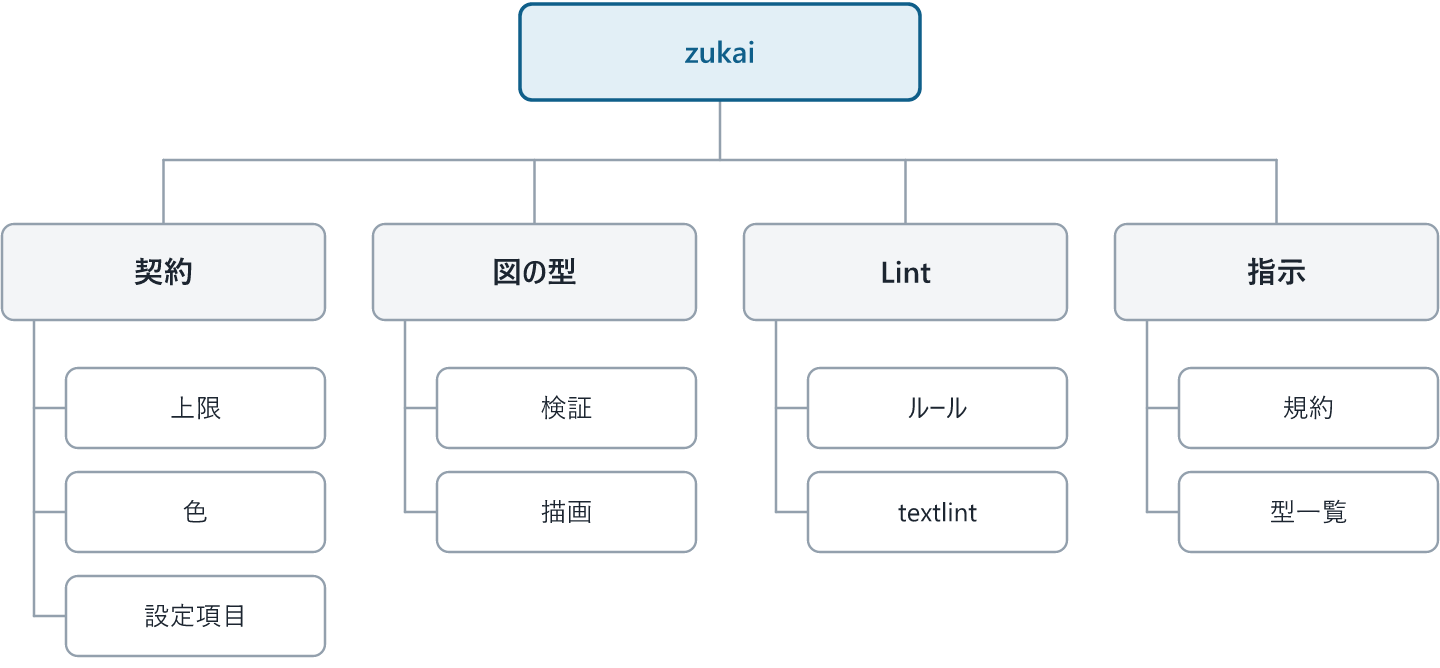
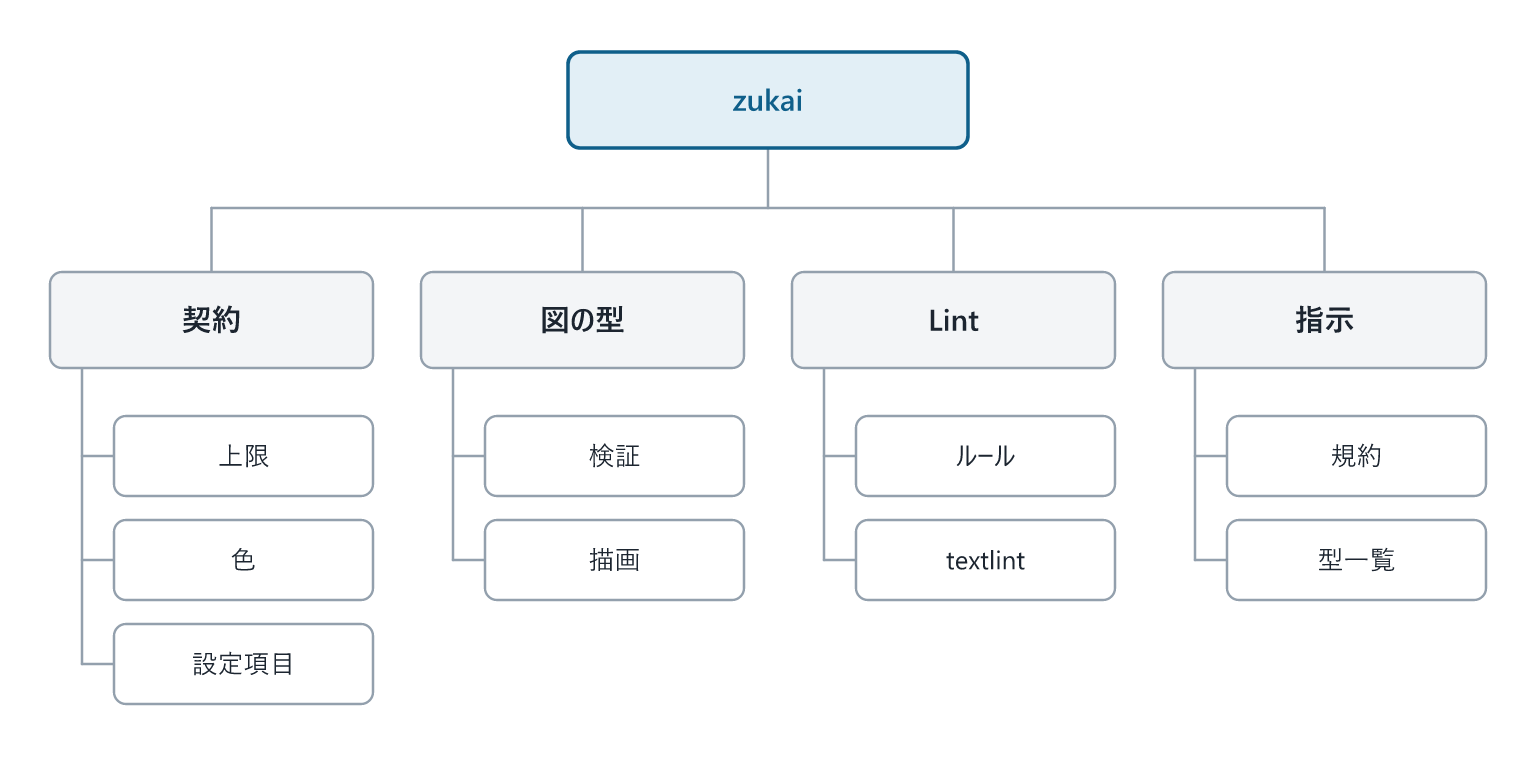
図の四辺に余白を付け、READMEの図と説明を更新 (#17)
HTML と PNG に紙の色の余白を付け、figure.margin は 0〜360 に制限する。
README の画像6枚を再生成し、説明文と設定の説明を更新する。

Closes #14

diff --git a/tests/figure-margin.test.ts b/tests/figure-margin.test.ts
@@ -1,0 +1,142 @@
+// 図の座標を保ち、HTML と PNG の四辺に紙の色の余白が付くことを確かめる。
+import { test } from 'node:test';
+import assert from 'node:assert/strict';
+import fs from 'node:fs';
+import os from 'node:os';
+import path from 'node:path';
+import { fileURLToPath } from 'node:url';
+import { parse as yaml } from 'yaml';
+import { Resvg } from '@resvg/resvg-js';
+import type { RenderedImage } from '@resvg/resvg-js';
+import { types } from '../src/figures/index.ts';
+import { baseTokens, readTheme } from '../src/theme.ts';
+import { typesFor } from '../src/figures/custom.ts';
+import { render, renderConfluence } from '../src/render.ts';
+import { pngFont, toPng } from '../src/png.ts';
+import { lint } from '../src/lint/index.ts';
+import type { Tokens } from '../src/types.ts';
+
+const raster = (svg: string) => new Resvg(svg, { fitTo: { mode: 'zoom', value: 2 }, font: { loadSystemFonts: true, defaultFontFamily: pngFont() } }).render();
+// ECharts の図・CSS・クリップ領域の通し番号を、出現順にそろえる。参照する名前の対応は保つ。
+const stable = (svg: string) => {
+  const ids = new Map<string, number>();
+  return svg.replace(/\bzr\d+-[\w-]+/g, (id) => `chart-${ids.get(id) ?? ids.set(id, ids.size).get(id)}`);
+};
+
+// 四辺の余白が紙の色で埋まり、図形が重ならないことをRGBAのピクセルで確かめる。
+function checkMargin(image: RenderedImage, t: Tokens) {
+  const rgba = Buffer.from([...t.color.paper.slice(1).match(/../g)!.map((n) => parseInt(n, 16)), 255]);
+  const row = Buffer.alloc(image.width * 4);
+  for (let x = 0; x < image.width; x++) rgba.copy(row, x * 4);
+  const pixels = image.pixels;
+  // 枠線が座標の端を少し越えるので、その分を除いた余白が四辺で空いているかを見る。
+  const border = Math.floor(t.figure.margin * 2) - 4;
+  for (let y = 0; y < image.height; y++) {
+    const actual = pixels.subarray(y * row.length, (y + 1) * row.length);
+    if (y < border || y >= image.height - border) assert.deepEqual(actual, row, `y=${y}`);
+    else {
+      assert.deepEqual(actual.subarray(0, border * 4), row.subarray(0, border * 4), `left y=${y}`);
+      assert.deepEqual(actual.subarray(-border * 4), row.subarray(-border * 4), `right y=${y}`);
+    }
+  }
+}
+
+test('組み込みの全24型は、図の座標を変えずに紙の色の余白を付ける', () => {
+  const t = baseTokens();
+  // PNG の既定の白で隠れないよう、紙の色を変え、透明な余白も検出する。
+  t.color.paper = '#e9f1f7';
+  const ctx = { baseDir: fileURLToPath(new URL('../corpus/good/', import.meta.url)) };
+  for (const type of Object.values(types)) {
+    const spec = type.name === 'screenshot'
+      ? { type: 'screenshot', image: 'shots/login.png', marks: [{ selector: '.alert', note: '残り時間を表示します。' }] }
+      : type.fence === 'svg figure' ? { type: 'free', svg: type.example } : yaml(type.example);
+    const svg = type.render(spec, t, ctx);
+    const padded = raster(svg);
+    const originalSvg = type.render(spec, { ...t, figure: { ...t.figure, margin: 0 } }, ctx);
+    // 表示範囲と背景を除き、座標・文字・線・箱は同じ。ECharts の図の通し番号だけは描くたびに変わる。
+    const content = (s: string) => stable(s.replace(/^<svg\b[^>]*>/, '').replace(/^<rect class="zk-background"[^>]*\/>/, ''));
+    assert.equal(content(svg), content(originalSvg), type.name);
+    const original = raster(originalSvg);
+    const offset = t.figure.margin * 2;
+    assert.equal(padded.width, original.width + offset * 2, type.name);
+    assert.equal(padded.height, original.height + offset * 2, type.name);
+    checkMargin(padded, t);
+    const a = padded.pixels;
+    const b = original.pixels;
+    let difference = 0;
+    let channels = 0;
+    // 以前の表示範囲の端では切れていた枠線が見えるようになるので、端の2pxは比較から外す。
+    for (let y = 2; y < original.height - 2; y++) {
+      const start = ((y + offset) * padded.width + offset) * 4;
+      // 表示範囲の原点が変わると、回転した文字や曲線のアンチエイリアスに端数の差が出る。
+      for (let x = 8; x < (original.width - 2) * 4; x++) {
+        difference += Math.abs(a[start + x] - b[y * original.width * 4 + x]);
+        channels++;
+      }
+    }
+    assert.ok(difference / channels < 0.05, `${type.name}: 平均の色の差 ${difference / channels}`);
+    // PNG への変換でも SVG の背景色を使い、別の背景指定で余白の色が変わらない。
+    assert.deepEqual(toPng(svg, '#ff00ff').data, padded.asPng(), type.name);
+  }
+});
+
+test('余白を0に設定したテーマは、余白なしのHTML用SVGとPNGを描ける', () => {
+  const theme = readTheme(null, { set: { 'figure.margin': 0 } });
+  assert.deepEqual(theme.problems, []);
+  const spec = yaml(types.flow.example);
+  const svg = types.flow.render(spec, theme.tokens);
+  assert.match(svg, /viewBox="0 0 720 72"/);
+  const png = toPng(svg, theme.tokens.color.paper);
+  assert.equal(png.width, 1440);
+  assert.equal(png.height, 144);
+});
+
+const playwright: typeof import('playwright-core') | null = await import('playwright' as string).catch(() => null);
+test('動画では背景を部品に数えず、箱と矢印だけを動かす', { skip: !playwright && 'Playwright がありません' }, async (ctx) => {
+  const { scenesOf, timeline, estimateVoice } = await import('../src/video/script.ts');
+  const { pageHtml } = await import('../src/video/encode.ts');
+  const { readJson } = await import('../src/lint/index.ts');
+  const browser = await playwright!.chromium.launch();
+  ctx.after(() => browser.close());
+  const file = fileURLToPath(new URL('../corpus/good/login.md', import.meta.url));
+  const source = '# 題名\n\n導入です。\n\n## 節\n\n主張です。\n\n```yaml figure\ntype: flow\nsteps:\n  - label: 入口\n  - label: 出口\n```\n\n説明です。\n';
+  const scenes = scenesOf(source, file);
+  const plan = { ...timeline(scenes, scenes.map((s) => estimateVoice(s.lines))), width: 1920, height: 1080, fps: 30, limits: readJson('contract/limits.json').video };
+  const page = await browser.newPage();
+  await page.setContent(pageHtml(plan, baseTokens()));
+  const result = await page.evaluate(() => {
+    (window as unknown as { zkInit(): unknown }).zkInit();
+    const svg = document.querySelector('.zk-fig svg')!;
+    const background = svg.querySelector('.zk-background')!;
+    return { backgroundPart: background.hasAttribute('data-part'), animations: background.getAnimations().length, parts: svg.querySelectorAll('[data-part]').length };
+  });
+  assert.deepEqual(result, { backgroundPart: false, animations: 0, parts: 3 });
+});
+
+test('HTML と Confluence は、自由図・チャート・テーマ独自の型に同じ余白を付ける', async (ctx) => {
+  const dir = fs.mkdtempSync(path.join(os.tmpdir(), 'zukai-margin-'));
+  ctx.after(() => fs.rmSync(dir, { recursive: true, force: true }));
+  const themeDir = path.join(dir, 'theme');
+  const typeDir = path.join(themeDir, 'types', 'sample');
+  fs.mkdirSync(typeDir, { recursive: true });
+  fs.writeFileSync(path.join(dir, 'zukai.config.json'), JSON.stringify({ theme: 'theme' }));
+  fs.writeFileSync(path.join(themeDir, 'tokens.json'), JSON.stringify({ color: { paper: '#141f4f' }, figure: { margin: 32 } }));
+  const free = '<svg viewBox="0 0 720 100"><title>例</title><rect x="0" y="0" width="720" height="100" fill="#0f5f8a"/><text class="zk-text" x="360" y="55" text-anchor="middle">例</text></svg>';
+  fs.writeFileSync(path.join(typeDir, 'type.json'), JSON.stringify({ summary: '例を描く', when: '例を示す', fields: { label: { type: 'string', required: true, max: 8 } }, example: { label: '例' } }));
+  fs.writeFileSync(path.join(typeDir, 'figure.svg'), free.replace('>例</text>', '>{{label}}</text>'));
+  const theme = readTheme(themeDir);
+  const custom = typesFor(theme).sample;
+  checkMargin(raster(custom.render({ type: 'sample', label: '例' }, theme.tokens)), theme.tokens);
+  const figures = [`svg figure\n${free}`, `yaml figure\n${types.bar.example}`, 'yaml figure\ntype: sample\nlabel: 例'];
+  const source = '# 題名\n\n導入です。\n\n' + figures.map((f, i) => `## 節${i + 1}\n\n主張です。\n\n\`\`\`${f}\n\`\`\`\n\n説明です。\n`).join('\n');
+  const file = path.join(dir, 'a.md');
+  assert.ok((await lint(source, file, { textlint: false })).ok);
+  const html = await render(source, file);
+  const page = await renderConfluence(source, file);
+  const svgs = [...html.matchAll(/<figure>([\s\S]*?)<\/figure>/g)].map((m) => m[1]);
+  assert.equal(svgs.length, 3);
+  // ECharts は描くたびに図の番号が変わるので、番号を外して比べる。
+  assert.deepEqual(svgs.map(stable), page.figures.map((f) => stable(f.svg)));
+  for (const svg of svgs) checkMargin(raster(svg), theme.tokens);
+  assert.equal(page.background, '#141f4f');
+});

diff --git a/src/figures/svg.ts b/src/figures/svg.ts
@@ -56,11 +56,20 @@ function emphasisCss(t: Tokens): string[] {
   return [`.zk-box-em{${box}}`, `.zk-on-em{fill:${on}}`, `.zk-on-em-note{fill:${onNote}}`];
 }
 
+// 描画の座標はそのままに、表示範囲を四辺へ広げる。HTML と PNG に同じ余白と紙の色を付ける。
+export function frame(t: Tokens, height: number, title: string): string {
+  const { width, margin } = t.figure;
+  const w = width + margin * 2;
+  const h = height + margin * 2;
+  return `<svg xmlns="http://www.w3.org/2000/svg" viewBox="${-margin} ${-margin} ${w} ${h}" width="100%" role="img" aria-label="${esc(title)}"><rect class="zk-background" x="${-margin}" y="${-margin}" width="${w}" height="${h}" fill="${t.color.paper}"/>`;
+}
+
+// SVGの枠と背景に、図形のスタイルと矢印・グラデーションの定義を加える。heightは余白を含まない図の高さ。
 export function open(t: Tokens, height: number, title: string): string {
   const c = t.color;
   const f = t.figure;
   return [
-    `<svg xmlns="http://www.w3.org/2000/svg" viewBox="0 0 ${f.width} ${height}" width="100%" role="img" aria-label="${esc(title)}">`,
+    frame(t, height, title),
     '<style>',
     `.zk-text{font-family:${t.font.replace(/"/g, "'")};fill:${c.ink};font-size:${t.size.label}px;font-weight:600}`,
     `.zk-note{font-family:${t.font.replace(/"/g, "'")};fill:${c.sub};font-size:${t.size.note}px}`,

diff --git a/src/figures/chart.ts b/src/figures/chart.ts
@@ -1,7 +1,7 @@
 // チャートの型が共有する部品。描画は ECharts に任せ、配色と線の太さは contract/tokens.json から渡す。
 import { createRequire } from 'node:module';
 import type * as Echarts from 'echarts';
-import { gradientVector } from './svg.ts';
+import { frame, gradientVector } from './svg.ts';
 import { mix, seriesColor, textOn } from '../color.ts';
 import type { Tokens } from '../types.ts';
 
@@ -29,8 +29,8 @@ export function renderChart(option: ChartOption, t: Tokens, height: number, titl
   // グラデーションの色からは、ECharts が重ねたときの色を作れず、壊れた CSS（fill:[object Object]）を出すため。
   const svg = chart.renderToSVGString().replace(/\.[\w-]+:hover \{[^}]*\}\n?/g, '');
   chart.dispose();
-  // 幅に合わせて伸縮するよう、固定の幅と高さを外す。viewBox は ECharts が付けている。
-  return svg.replace(/<svg ([^>]*?)width="[\d.]+" height="[\d.]+"/, `<svg $1width="100%" role="img" aria-label="${title.replace(/"/g, '&quot;')}"`);
+  // ECharts の座標を保ち、他の図と同じ余白と背景を付ける。
+  return svg.replace(/<svg\b[^>]*>/, () => frame(t, height, title));
 }
 
 // 描画せずに、各要素が置かれる位置と大きさだけを調べる。文字が収まるかの検査に使う。

diff --git a/src/theme.ts b/src/theme.ts
@@ -79,7 +79,12 @@ export const CHOICES: Record<string, string[]> = {
   'chart.mode': ['series', 'neutral'],
 };
 // 範囲のある数値。ここに無い数値は、0より大きければよい。
-const RANGES: Record<string, [number, number]> = { 'gradient.angle': [0, 360], 'figure.radius': [0, Infinity] };
+const RANGES: Record<string, [number, number]> = {
+  'gradient.angle': [0, 360],
+  'figure.radius': [0, Infinity],
+  // 0なら余白なし。上限は図の幅の半分にし、画像の幅を余白なしの2倍までに抑える。
+  'figure.margin': [0, baseTokens().figure.width / 2],
+};
 
 // base の形に合う値だけを重ねる。base に無い名前、型の違う値、色でない値は problems に入れ、重ねない。
 function overlay(base: Json, over: Json, at: string, problems: string[]): Json {

diff --git a/src/video/runtime.browser.js b/src/video/runtime.browser.js
@@ -187,7 +187,7 @@
     const parts = [];
     for (const ch of /** @type {SVGElement[]} */ ([...svg.children])) {
       const tag = ch.tagName.toLowerCase();
-      if (['style', 'defs', 'title'].includes(tag)) continue;
+      if (['style', 'defs', 'title'].includes(tag) || ch.classList.contains('zk-background')) continue;
       if (tag === 'text' && parts.length && /** @type {FigurePart} */ (parts.at(-1)).kind === 'draw') {
         /** @type {FigurePart} */ (parts.at(-1)).extra.push(ch);
         /** @type {FigurePart} */ (parts.at(-1)).label ??= ch.textContent;

diff --git a/README.md b/README.md
@@ -1,70 +1,97 @@
 # zukai
 
-zukai は、図が主役の日本語資料を AI に書かせ、AI を使わない Lint で検査するハーネスです。対象は、設計書や社内説明資料のような縦長のドキュメントです。
+zukai は、AI が書いた原稿から、図を中心にした日本語の資料を作るツールです。システムの設計書や社内の説明資料など、ブラウザで縦に読んでいくドキュメントを作れます。
+
+AI に文章と図の内容を Markdown で書いてもらい、zukai で検査して HTML に変換します。作った資料は、HTML ファイルで渡したり、Confluence のページとして共有したりできます。
 
 ## 仕組み
 
-AI は Markdown の原稿だけを書きます。Lint は原稿の構造、図の仕様、文章を検査します。合格した原稿を、テンプレートが HTML に変換します。
+資料は、原稿を書いて検査し、HTML に変換するという順で作ります。
+
+1. AI が、見出し・文章・図の内容を Markdown の原稿に書く。図には、種類や箱の名前、要素どうしの関係を指定する。
+2. `zukai lint` が、原稿の構成、図の項目数や文字の収まり、文章の書き方を検査する。検査に AI は使わない。
+3. 検査で見つかった問題を直し、`zukai build` で HTML を作る。zukai が原稿の指定をもとに図を描き、本文と一緒に配置する。
 
 ![原稿を書き、Lint で検査し、HTML に変換する](docs/images/pipeline.png)
 
-上限と図の型は、指示と検査の両方に使います。組み込みの型は 24 種類で、テーマに独自の型があれば一覧に追加されます。最初に渡す指示は型の一覧だけです。
+図には、処理の流れや条件分岐など、内容に合った「型」を選べます。たとえば、手順を順番に説明するときは `flow`、複数の登場者のやり取りを示すときは `sequence` を使います。組み込みの型は 24 種類です。色やフォントを決める「テーマ」には、独自の型も追加できます。
+
+文字数や図の要素数の上限、使う色、設定項目は「契約」として定義しています。AI に渡す指示と Lint の検査は、この定義と図の型を共通で使います。AI が書くときのルールと、zukai が検査するときのルールをそろえるためです。
 
 ![契約、図の型、Lint、指示](docs/images/parts.png)
 
-契約、テーマ、図の型、Lint、指示、評価、実績の置き場所は [docs/architecture.md](docs/architecture.md) にあります。
+AI には、最初に図の型の一覧を渡し、使う型が決まってから詳しい書き方を渡します。原稿と図の具体例は [docs/manuscript.md](docs/manuscript.md)、各部品の役割と置き場所は [docs/architecture.md](docs/architecture.md) にあります。
 
 ## 設定
 
-同じ項目は下の層が優先し、環境変数はどのファイルよりも優先します。
+設定は、どこまで共有したいかで置き場所を分けます。全プロジェクトの共通設定は「この PC」、プロジェクト内で共有する設定は「チーム」に置きます。「手元」には自分だけの変更、「本人」には API キーやトークンを保存します。
 
 ![この PC、チーム、手元、本人の順に設定が重なる](docs/images/settings.png)
 
-項目の意味と書き方は [docs/configuration.md](docs/configuration.md) にあります。
+同じ項目に複数の値があるときは、図の下側にある設定が優先されます。環境変数で指定した値は、すべての設定ファイルより優先します。
+
+たとえば、チームで資料と動画を出力する設定にしていても、手元の設定を変えれば、自分だけ資料の出力にできます。設定ファイルの場所や変更コマンドは [docs/configuration.md](docs/configuration.md) にあります。
 
 ## 共有
 
-原本は Markdown です。HTML と Confluence のページは、原稿から作ります。
+編集する原本は Markdown の原稿です。共有先に合わせて、原稿から次の形で資料を作ります。
+
+- HTML で渡す場合は、図と本文を 1 つのファイルにまとめる。原稿も HTML の中に保存するので、受け取った人が取り出して編集できる。
+- Confluence で共有する場合は、図を PNG として添付し、ページの本文から表示する。編集用の Markdown 原稿もページに添付する。
 
 ![ファイルは 1 枚の HTML、Confluence は PNG と本文](docs/images/share.png)
 
-登録の手順と、チャットの外に資料を出す仕組みは [docs/output.md](docs/output.md) にあります。
+内容を直すときは、原稿を編集して資料を作り直します。Confluence への登録手順や、AI の返答を図解の資料として表示する方法は [docs/output.md](docs/output.md) にあります。
 
 ## はじめ方
 
-zukai は npm に公開していません。リポジトリを clone し、`npm link` で `zukai` コマンドとして使います。Node.js 24 以上が必要です。
+Node.js 24 以上が必要です。zukai は npm に公開していないため、このリポジトリを取得して使います。`npm link` を実行すると、ほかのプロジェクトからも `zukai` コマンドを呼べるようになります。
 
 ![clone、npm install、npm link、zukai setup](docs/images/setup.png)
 
 ```bash
-git clone <このリポジトリ> && cd zukai
+git clone https://github.com/otomatty/zukai.git
+cd zukai
 npm install
 npm link            # zukai コマンドを使えるようにする。フォルダを動かしたら、やり直す
 
 cd /path/to/project
-zukai setup         # 質問に答えて、スキル、出力、動画、Confluence をまとめて設定する
+zukai setup         # 使う AI ツール、出力の形、共有先を質問に答えて設定する
 ```
 
-コマンドの一覧、Lint の速さ、スキルの読み込ませ方は [docs/setup.md](docs/setup.md) にあります。`zukai` を使えない環境では、`node /path/to/zukai/src/cli.ts` で同じように動きます。
+`zukai setup` は、AI に資料作成の手順を教える「スキル」も設定します。セットアップ後は、選んだ AI ツールに「ログイン処理を図で説明して」のように依頼して資料を作れます。
+
+手元に Markdown の原稿がある場合は、次のコマンドで検査し、HTML に変換できます。
+
+```bash
+zukai lint 原稿.md
+zukai build 原稿.md  # 原稿.html を書き出す
+```
+
+コマンドの一覧と詳しい設定手順は [docs/setup.md](docs/setup.md) にあります。`zukai` を使えない環境では、`node /path/to/zukai/src/cli.ts` の後ろにコマンド名と引数を書いて実行できます。
 
 ## ドキュメント
 
-README は zukai が何をするかを説明します。設計の詳細は `docs/` に分けてあります。
+使い方や設計の詳細は、`docs/` にまとめています。原稿を書きたいとき、設定を変えたいとき、実装を調べたいときは、目的に合ったページを参照してください。
 
 ![使い方、出力、設計、開発](docs/images/docs-map.png)
 
+| ファイル | わかること |
+|---|---|
+| [docs/setup.md](docs/setup.md) | インストール、初期設定、コマンドの使い方 |
+| [docs/configuration.md](docs/configuration.md) | 設定の置き場所、優先順位、変更方法 |
+| [docs/manuscript.md](docs/manuscript.md) | 原稿の書き方と、図の型の選び方 |
+| [docs/output.md](docs/output.md) | HTML や Confluence での共有と、AI の返答を資料にする方法 |
+| [docs/video.md](docs/video.md) | 図解の資料から解説動画を作る方法 |
+| [docs/theme.md](docs/theme.md) | 色やフォントの変更と、独自の図の型の追加 |
+| [docs/lint.md](docs/lint.md) | 原稿の検査ルール、用語の統一、根拠の添え方 |
+| [docs/architecture.md](docs/architecture.md) | 検査と描画を担う部品の役割、実装の置き場所 |
+| [docs/development.md](docs/development.md) | 開発環境、テスト、Claude Code のプラグインとしての使い方 |
 
-| ファイル                                           | 内容                       |
-| ---------------------------------------------- | ------------------------ |
-| [docs/architecture.md](docs/architecture.md)   | 契約、図の型、Lint、指示の置き場所      |
-| [docs/setup.md](docs/setup.md)                 | はじめ方とコマンド                |
-| [docs/configuration.md](docs/configuration.md) | 設定の置き場所と項目               |
-| [docs/output.md](docs/output.md)               | HTML、Confluence、返答を資料にする |
-| [docs/video.md](docs/video.md)                 | 解説動画                     |
-| [docs/theme.md](docs/theme.md)                 | 色、フォント、独自の型              |
-| [docs/manuscript.md](docs/manuscript.md)       | 原稿の形と図の型                 |
-| [docs/lint.md](docs/lint.md)                   | 用語、根拠、Lint               |
-| [docs/development.md](docs/development.md)     | プラグインと開発                 |
+README の図も zukai で生成しています。原稿は `docs/diagrams/overview.md`、画像は `docs/images/` にあります。画像を作り直すには、次のコマンドを実行します。
 
+```bash
+zukai build docs/diagrams/overview.md --format=confluence
+```
 
-上の図は `docs/diagrams/overview.md` から書き出したものです。`zukai build docs/diagrams/overview.md --format=confluence` は `fig-01.png` から順に、経路、役割、設定、共有先、はじめ方、ドキュメントの PNG を出します。このリポジトリでは、その 6 枚を `docs/images/` に置いています。
+`docs/diagrams/overview.confluence/` に `fig-01.png` から `fig-06.png` が出ます。順に、原稿から資料を作る流れ、部品の役割、設定、共有先、はじめ方、ドキュメントの案内です。README に反映するときは、対応する画像を `docs/images/` にコピーします。
